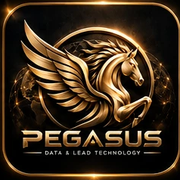
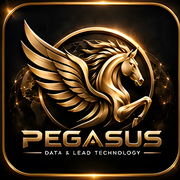
Sharp, full-screen splash art on the website and app
- Cut every brand asset from 4x AI-upscaled sources; the splash art is
  now 1600 px (was 444 px), so it stays crisp on retina screens
- Homepage hero fills the first screen: the art scales with the
  viewport and loads from a 640/1000/1600 WebP set; the city photo is
  dimmed behind it and the pins and arcs moved clear of the wordmark
- App boot splash, loading splash and sign-in panel use the hi-res
  WebP and show it larger
- Vectorize the black key and edge feather (the 4x sources would have
  been slow per-pixel); keep the corner logos at sensible sizes

Claude-Session: https://claude.ai/code/session_01Bm3ZcYr5XXSPQzKtcZGjka

diff --git a/pegasus/web/static/site.css b/pegasus/web/static/site.css
@@ -183,14 +183,14 @@ footer a:hover { color: var(--ink); }
 .hero2 { position: relative; overflow: hidden; padding: 64px 0 0; background: #050403; color: #F6EFE2; isolation: isolate; }
 .hero2::before { content: ""; position: absolute; inset: 0; z-index: -1;
   background: radial-gradient(40% 55% at 58% 42%, rgba(226,178,90,.20), transparent 70%), radial-gradient(60% 50% at 0% 0%, rgba(240,138,44,.08), transparent 70%); }
-.hero-city { position: absolute; right: 0; top: 0; height: 100%; width: min(62vw, 980px); object-fit: cover; object-position: 30% 40%; z-index: -1; opacity: .9;
+.hero-city { position: absolute; right: 0; top: 0; height: 100%; width: min(62vw, 980px); object-fit: cover; object-position: 30% 40%; z-index: -1; opacity: .55;
   -webkit-mask-image: linear-gradient(90deg, transparent 0%, #000 45%), linear-gradient(0deg, transparent 0%, #000 30%); mask-image: linear-gradient(90deg, transparent 0%, #000 45%);
   -webkit-mask-composite: source-in; }
 .hero2::after { content: ""; position: absolute; inset: 0; z-index: -1; pointer-events: none;
   background: linear-gradient(0deg, #050403 0%, rgba(5,4,3,.92) 20%, rgba(5,4,3,.35) 42%, transparent 60%),
               linear-gradient(90deg, #050403 0%, rgba(5,4,3,.75) 34%, transparent 58%); }
 .hero2 > .wrap { position: relative; z-index: 1; }
-.hero-arcs { position: absolute; left: 34%; right: 0; bottom: 210px; width: 66%; height: 170px; z-index: 0; opacity: .7; }
+.hero-arcs { position: absolute; left: 34%; right: 0; bottom: 96px; width: 66%; height: 170px; z-index: 0; opacity: .7; }
 .hero-arcs .arc { fill: none; stroke: url(#arc); stroke-width: 1.6; stroke-dasharray: 6 10; animation: dash 14s linear infinite; }
 .hero-arcs .a2 { animation-duration: 18s; } .hero-arcs .a3 { animation-duration: 22s; } .hero-arcs .a4 { animation-duration: 16s; }
 @keyframes dash { to { stroke-dashoffset: -400; } }
@@ -198,7 +198,9 @@ footer a:hover { color: var(--ink); }
   filter: drop-shadow(0 0 12px rgba(255,190,90,.9)); animation: bob 4s ease-in-out infinite; }
 .hpin svg { width: 100%; height: 100%; fill: rgba(226,178,90,.35); }
 @keyframes bob { 50% { transform: translate(-50%, -112%); } }
-.hero2-grid { display: grid; grid-template-columns: 1.02fr .98fr; gap: 24px; align-items: center; min-height: 560px; }
+/* Full-screen first view: the splash art scales with the viewport (hi-res srcset up to 1600 px) */
+.hero2-grid { display: grid; grid-template-columns: minmax(0, .88fr) minmax(0, 1.12fr); gap: 12px; align-items: center;
+  max-width: 1480px; padding-inline: clamp(20px, 4vw, 56px); min-height: max(560px, calc(100svh - 250px)); }
 .hero-copy .lead { color: #D9CCB4; font-size: 18px; margin-top: 20px; max-width: 560px; }
 .hero-copy .lead b { color: #FFE3A3; }
 .hero2 .grad, .final .grad { background: var(--wing); -webkit-background-clip: text; background-clip: text; color: transparent; }
@@ -213,13 +215,14 @@ footer a:hover { color: var(--ink); }
 .hero2 .btn-ghost { color: #D9CCB4; } .hero2 .btn-outline { color: #FFE3A3; }
 .trust { list-style: none; padding: 0; margin: 20px 0 0; display: flex; flex-wrap: wrap; gap: 8px 20px; color: #C9BAA0; font-size: 14px; }
 .trust li { display: flex; align-items: center; gap: 6px; } .trust svg { width: 16px; height: 16px; color: #E2B25A; }
-.hero-art { text-align: center; }
-.hero-art { position: relative; }
-.hero-art::before { content: ""; position: absolute; left: 50%; top: 42%; width: 70%; aspect-ratio: 1; transform: translate(-50%, -50%); border-radius: 50%;
+.hero-art { position: relative; text-align: center; margin-right: -20px; }
+.hero-art::after { content: ""; position: absolute; inset: -6% -4%; z-index: -1; pointer-events: none;
+  background: radial-gradient(closest-side, rgba(5,4,3,.82), rgba(5,4,3,.5) 60%, transparent); }
+.hero-art::before { content: ""; position: absolute; left: 50%; top: 44%; width: 74%; aspect-ratio: 1; transform: translate(-50%, -50%); border-radius: 50%;
   background: radial-gradient(circle, rgba(255,200,110,.28), transparent 65%); animation: halo 5s ease-in-out infinite; pointer-events: none; }
 @keyframes halo { 50% { opacity: .45; } }
-.hero-art img { position: relative; width: min(100%, 560px); height: auto; }
-.tagline { margin: 6px 0 0; letter-spacing: .55em; text-transform: uppercase; font-size: 15px; color: #E8DCC6; }
+.hero-art img { position: relative; display: block; margin: 0 auto; width: 100%; max-width: calc(74svh * 1.32); height: auto; }
+.tagline { margin: 6px 0 0; letter-spacing: .55em; text-transform: uppercase; font-size: clamp(13px, 1.2vw, 18px); color: #E8DCC6; }
 .pillars { list-style: none; padding: 0; margin: 28px 0 0; display: grid; grid-template-columns: repeat(5, 1fr); gap: 8px; }
 .pillars li { display: flex; flex-direction: column; align-items: center; text-align: center; gap: 6px; padding: 18px 10px; border-left: 1px solid rgba(226,178,90,.22); }
 .pillars li:first-child { border-left: 0; }
@@ -233,7 +236,7 @@ footer a:hover { color: var(--ink); }
 @keyframes pulse { 70% { box-shadow: 0 0 0 10px rgba(46,204,140,0); } 100% { box-shadow: 0 0 0 0 rgba(46,204,140,0); } }
 @media (max-width: 960px) {
   .hero2 { padding-top: 40px; } .hero2-grid { grid-template-columns: 1fr; min-height: 0; }
-  .hero-art { order: -1; } .hero-art img { width: min(78%, 380px); }
+  .hero-art { order: -1; margin: -12px -20px 0; } .hero-art img { width: 100%; max-width: calc(58svh * 1.32); }
   .hero-city { width: 100%; opacity: .35; }
   .hpin, .hero-arcs { display: none; }
   .pillars { grid-template-columns: repeat(2, 1fr); } .pillars li:nth-child(odd) { border-left: 0; } .pillars li:last-child { grid-column: 1 / -1; }

diff --git a/pegasus/web/templates/landing.html b/pegasus/web/templates/landing.html
@@ -3,7 +3,7 @@
 {% block title %}Construction Leads & Real Estate Leads Before Your Competition | Pegasus{% endblock %}
 {% block description %}Building permit leads, contractor leads and off-market real estate leads from public records, scored for your trade and predicted before they're advertised. 14 days free, no card.{% endblock %}
 {% block head %}
-<link rel="preload" as="image" href="/static/site/hero-logo.webp" imagesrcset="/static/site/hero-logo-360.webp 360w, /static/site/hero-logo.webp 444w" imagesizes="(max-width: 960px) 78vw, 444px" fetchpriority="high">
+<link rel="preload" as="image" href="/static/site/hero-logo-1000.webp" imagesrcset="/static/site/hero-logo-640.webp 640w, /static/site/hero-logo-1000.webp 1000w, /static/site/hero-logo-1600.webp 1600w" imagesizes="(max-width: 960px) 100vw, 58vw" fetchpriority="high">
 <script type="application/ld+json">{{ jsonld|safe }}</script>
 {% endblock %}
 
@@ -20,14 +20,14 @@
 <section class="hero2" aria-labelledby="hero-title">
   <picture>
     <source media="(max-width: 960px)" srcset="/static/site/hero-city-480.webp">
-    <img class="hero-city" src="/static/site/hero-city.webp" width="858" height="528" alt="" aria-hidden="true">
+    <img class="hero-city" src="/static/site/hero-city.webp" width="1920" height="1182" alt="" aria-hidden="true">
   </picture>
   <svg class="hero-arcs" viewBox="0 0 1440 260" preserveAspectRatio="none" aria-hidden="true">
     <defs><linearGradient id="arc" x1="0" x2="1"><stop offset="0" stop-color="#E2B25A" stop-opacity="0"/><stop offset=".5" stop-color="#FFD37A"/><stop offset="1" stop-color="#E2B25A" stop-opacity="0"/></linearGradient></defs>
     <path class="arc" d="M180 230 Q420 40 700 170"/><path class="arc a2" d="M700 170 Q960 20 1210 140"/>
     <path class="arc a3" d="M420 220 Q700 90 980 210"/><path class="arc a4" d="M980 210 Q1160 110 1330 200"/>
   </svg>
-  {% for x, y, d in [(54, 74, 0), (64, 66, 0.6), (75, 72, 1.2), (86, 65, 0.3), (95, 73, 0.9)] %}
+  {% for x, y, d in [(52, 90, 0), (63, 86, 0.6), (76, 91, 1.2), (87, 85, 0.3), (96, 90, 0.9)] %}
   <span class="hpin" style="left:{{ x }}%;top:{{ y }}%;animation-delay:{{ d }}s" aria-hidden="true">{{ icon("pin") }}</span>
   {% endfor %}
   <div class="wrap hero2-grid">
@@ -44,7 +44,7 @@
       <ul class="trust"><li>{{ icon("check") }} No card to start</li><li>{{ icon("check") }} Cancel in two clicks</li><li>{{ icon("check") }} Any US city or county</li></ul>
     </div>
     <div class="hero-art">
-      <img src="/static/site/hero-logo.webp" srcset="/static/site/hero-logo-360.webp 360w, /static/site/hero-logo.webp 444w" sizes="(max-width: 960px) 78vw, 444px" width="444" height="336" alt="Pegasus, data and lead technology" fetchpriority="high">
+      <img src="/static/site/hero-logo-1000.webp" srcset="/static/site/hero-logo-640.webp 640w, /static/site/hero-logo-1000.webp 1000w, /static/site/hero-logo-1600.webp 1600w" sizes="(max-width: 960px) 100vw, 58vw" width="1600" height="1211" alt="Pegasus, data and lead technology" fetchpriority="high">
       <p class="tagline">Opportunity finds you</p>
     </div>
   </div>

diff --git a/frontend/index.html b/frontend/index.html
@@ -5,7 +5,7 @@
     <meta name="viewport" content="width=device-width, initial-scale=1, viewport-fit=cover" />
     <meta name="theme-color" content="#0B0A08" />
     <link rel="icon" type="image/png" sizes="32x32" href="/static/brand/pegasus-32.png" />
-    <link rel="preload" as="image" href="/static/brand/splash.png" />
+    <link rel="preload" as="image" type="image/webp" href="/static/brand/splash.webp" />
     <link rel="manifest" href="/static/manifest.webmanifest" />
     <link rel="apple-touch-icon" href="/static/brand/apple-touch-icon.png" />
     <title>Pegasus · Leads</title>
@@ -19,13 +19,13 @@
       /* Shown before JavaScript loads; the React splash (components/Splash.tsx) takes over seamlessly. */
       #boot-splash { position: fixed; inset: 0; z-index: 6000; display: grid; place-items: center; background: #050403;
         background-image: radial-gradient(60% 50% at 50% 45%, rgba(226,178,90,0.16), transparent 70%); }
-      #boot-splash img { width: min(78vw, 560px); height: auto; animation: boot-in .6s ease-out both; }
+      #boot-splash img { width: min(92vw, calc(70svh * 1.32), 1100px); height: auto; animation: boot-in .6s ease-out both; }
       @keyframes boot-in { from { opacity: 0; transform: scale(.96); } to { opacity: 1; transform: none; } }
       @media (prefers-reduced-motion: reduce) { #boot-splash img { animation: none; } }
     </style>
   </head>
   <body class="bg-page text-ink antialiased">
-    <div id="boot-splash" aria-hidden="true"><img src="/static/brand/splash.png" alt="" /></div>
+    <div id="boot-splash" aria-hidden="true"><img src="/static/brand/splash.webp" alt="" /></div>
     <div id="root"></div>
     <script type="module" src="/src/main.tsx"></script>
   </body>

diff --git a/frontend/src/components/Splash.tsx b/frontend/src/components/Splash.tsx
@@ -12,8 +12,8 @@ export function Splash({ label = "Opportunity finds you" }: { label?: string }) 
       <div className="absolute inset-0"
            style={{ background: "radial-gradient(60% 50% at 50% 45%, rgba(226,178,90,0.16), transparent 70%)" }} />
       <div className="relative flex flex-col items-center px-6">
-        <motion.img src="/static/brand/splash.png" alt="Pegasus · data & lead technology" draggable={false}
-                    className="w-[min(78vw,560px)] h-auto select-none"
+        <motion.img src="/static/brand/splash.webp" alt="Pegasus · data & lead technology" draggable={false}
+                    className="w-[min(92vw,calc(70svh*1.32),1100px)] h-auto select-none"
                     initial={{ opacity: 0, scale: 0.96, filter: "brightness(0.7)" }}
                     animate={{ opacity: 1, scale: 1, filter: ["brightness(0.95)", "brightness(1.12)", "brightness(0.95)"] }}
                     transition={{ opacity: { duration: 0.5 }, scale: { duration: 0.9, ease: [0.2, 0.8, 0.2, 1] },

diff --git a/frontend/src/pages/Login.tsx b/frontend/src/pages/Login.tsx
@@ -17,8 +17,8 @@ export function AuthFrame({ children, aside }: { children: React.ReactNode; asid
              style={{ background: "radial-gradient(55% 45% at 50% 40%, rgba(226,178,90,0.18), transparent 70%)" }} />
         <div className="absolute h-[640px] w-[640px] rounded-full animate-sweep opacity-60"
              style={{ background: "conic-gradient(from 0deg, transparent 0deg, rgba(226,178,90,0.16) 40deg, transparent 70deg)" }} />
-        <img src="/static/brand/splash.png" alt="Pegasus · data & lead technology" draggable={false}
-             className="relative w-[min(36vw,560px)] h-auto select-none" />
+        <img src="/static/brand/splash.webp" alt="Pegasus · data & lead technology" draggable={false}
+             className="relative w-[min(44vw,calc(62svh*1.32),860px)] h-auto select-none" />
         <div className="relative max-w-md px-8 text-center">{aside}</div>
       </div>
     </div>

diff --git a/pegasus/marketing/brand_pack.py b/pegasus/marketing/brand_pack.py
@@ -4,7 +4,10 @@ Sources (supplied artwork, kept in the repo):
   marketing/brand/source/logo-primary.png  512x512 primary logo (app corner logo)
   marketing/brand/source/brand-pack.webp   1536x1024 sheet: splash logo, app icon, social profile/cover, website hero
 
-Run after replacing either source (e.g. with higher-resolution originals; crop boxes scale automatically):
+If 4x versions exist (logo-primary-4x.png, brand-pack-4x.webp, made by scripts/upscale_brand_sources.py),
+they are used instead, so the splash and hero art stay sharp full-screen on retina displays.
+
+Run after replacing a source (crop boxes scale automatically to any resolution):
   pip install pillow && pegasus marketing brand
 """
 
@@ -12,7 +15,7 @@ from __future__ import annotations
 
 from pathlib import Path
 
-from PIL import Image, ImageChops, ImageDraw, ImageFilter
+from PIL import Image, ImageChops, ImageDraw, ImageFilter, ImageMath
 
 ROOT = Path(__file__).resolve().parents[2]
 SRC = ROOT / "marketing" / "brand" / "source"
@@ -41,35 +44,28 @@ def scale_box(box, src_size, base_size):
 def key_black(im: Image.Image, lo: int = 14, hi: int = 150) -> Image.Image:
     """Turn the black background transparent. Alpha follows brightness (like a 'screen' blend), and colors
     are un-premultiplied so the gold keeps its brightness on any background."""
-    rgb = im.convert("RGB")
-    r, g, b = rgb.split()
+    r, g, b = im.convert("RGB").split()
     peak = ImageChops.lighter(ImageChops.lighter(r, g), b)
     alpha = peak.point(lambda v: 0 if v <= lo else 255 if v >= hi else round((v - lo) * 255 / (hi - lo)))
-    px, apx = rgb.load(), alpha.load()
-    out = Image.new("RGBA", rgb.size)
-    opx = out.load()
-    for y in range(rgb.size[1]):
-        for x in range(rgb.size[0]):
-            a = apx[x, y]
-            if a == 0:
-                opx[x, y] = (0, 0, 0, 0)
-                continue
-            cr, cg, cb = px[x, y]
-            f = 255 / a
-            opx[x, y] = (min(255, round(cr * f)), min(255, round(cg * f)), min(255, round(cb * f)), a)
-    return out
+    half, solid = alpha.point(lambda v: v // 2), alpha.point(lambda v: 255 if v else 0)
+    chans = [ImageChops.multiply(ImageMath.lambda_eval(lambda a: (a["c"] * 255 + a["h"]) / a["a"],
+                                                       c=c, a=alpha, h=half).convert("L"), solid)
+             for c in (r, g, b)]
+    return Image.merge("RGBA", (*chans, alpha))
 
 
 def feather(im: Image.Image, frac: float = 0.07) -> Image.Image:
     """Fade alpha to zero toward every edge, so a cut-out never shows a hard rectangle."""
     w, h = im.size
-    edge = Image.new("L", (w, h), 0)
-    px = edge.load()
-    fx, fy = max(1, w * frac), max(1, h * frac)
-    for y in range(h):
-        vy = min(1.0, y / fy, (h - 1 - y) / fy)
-        for x in range(w):
-            px[x, y] = round(255 * max(0.0, min(vy, x / fx, (w - 1 - x) / fx)))
+
+    def ramp(n: int) -> list[int]:
+        f = max(1, n * frac)
+        return [round(255 * max(0.0, min(1.0, i / f, (n - 1 - i) / f))) for i in range(n)]
+
+    hx, hy = Image.new("L", (w, 1)), Image.new("L", (1, h))
+    hx.putdata(ramp(w))
+    hy.putdata(ramp(h))
+    edge = ImageChops.darker(hx.resize((w, h), Image.NEAREST), hy.resize((w, h), Image.NEAREST))
     out = im.copy()
     out.putalpha(ImageChops.multiply(im.getchannel("A"), edge))
     return out
@@ -92,6 +88,17 @@ def rounded(im: Image.Image, radius_frac: float = 0.22) -> Image.Image:
     return out
 
 
+def source(name: str, hires: str) -> Image.Image:
+    return Image.open(SRC / hires if (SRC / hires).exists() else SRC / name)
+
+
+def fit(im: Image.Image, max_w: int) -> Image.Image:
+    """Downscale to at most max_w wide (never upscale)."""
+    if im.width <= max_w:
+        return im
+    return im.resize((max_w, round(im.height * max_w / im.width)), Image.LANCZOS)
+
+
 def square(im: Image.Image) -> Image.Image:
     s = min(im.size)
     l, t = (im.width - s) // 2, (im.height - s) // 2
@@ -112,46 +119,45 @@ def main() -> list[Path]:
         img.save(path, optimize=True, **kw)
         written.append(path)
 
-    # --- primary logo (top corner of the app)
-    logo = Image.open(SRC / "logo-primary.png")
+    # --- primary logo (top corner of the app). Sizes are about 3x their usual on-screen size.
+    logo = source("logo-primary.png", "logo-primary-4x.png")
     lb = {k: scale_box(v, logo.size, (LOGO_BASE, LOGO_BASE)) for k, v in LOGO_BOXES.items()}
-    full = trim(key_black(logo.crop(scale_box((0, 0, 512, 462), logo.size, (LOGO_BASE, LOGO_BASE)))))
+    full = trim(key_black(fit(logo.crop(scale_box((0, 0, 512, 462), logo.size, (LOGO_BASE, LOGO_BASE))), 480)))
     save(full, STATIC / "logo.png")
-    save(trim(key_black(logo.crop(lb["emblem"]))), STATIC / "logo-mark.png")
-    save(trim(key_black(logo.crop(lb["wordmark"]))), STATIC / "logo-wordmark.png")
-    # Email header (Gmail/Outlook need PNG): the wordmark on the email's black header
-    save(trim(key_black(logo.crop(lb["wordmark"]))), STATIC / "email-wordmark.png")
+    mark = trim(key_black(fit(logo.crop(lb["emblem"]), 320)))
+    save(mark, STATIC / "logo-mark.png")
+    save(trim(key_black(fit(logo.crop(lb["wordmark"]), 640))), STATIC / "logo-wordmark.png")
+    # Email header (Gmail/Outlook need PNG): the wordmark on the email's black header, kept light
+    save(trim(key_black(fit(logo.crop(lb["wordmark"]), 480))), STATIC / "email-wordmark.png")
 
     # --- brand pack sheet
-    pack = Image.open(SRC / "brand-pack.webp").convert("RGB")
+    pack = source("brand-pack.webp", "brand-pack-4x.webp").convert("RGB")
     pb = {k: scale_box(v, pack.size, PACK_BASE) for k, v in PACK_BOXES.items()}
-    # Splash art keyed off its black background so it floats on the splash page with no visible edges
-    save(feather(key_black(pack.crop(pb["splash"]), lo=16, hi=130), 0.05), STATIC / "splash.png")
+    # Splash art keyed off its black background so it floats on any page with no visible edges.
+    # PNG for the ad renderer, WebP (with alpha) for the app splash and sign-in screens.
+    splash = feather(key_black(fit(pack.crop(pb["splash"]), 1600), lo=16, hi=130), 0.05)
+    save(splash, STATIC / "splash.png")
+    save(splash, STATIC / "splash.webp", quality=62, alpha_quality=60, method=6)
     icon = square(pack.crop(pb["app-icon"]))
     for name, size in (("pegasus-512.png", 512), ("pegasus-192.png", 192), ("apple-touch-icon.png", 180)):
         save(upscale(icon, size), STATIC / name)
     # Favicon: the emblem alone reads better than the detailed tile at 32 px
-    mark = trim(key_black(logo.crop(lb["emblem"])))
     fav = Image.new("RGBA", (64, 64), (11, 10, 8, 255))
     m = mark.copy()
     m.thumbnail((56, 56), Image.LANCZOS)
     fav.alpha_composite(m, ((64 - m.width) // 2, (64 - m.height) // 2))
     save(rounded(fav).resize((32, 32), Image.LANCZOS), STATIC / "pegasus-32.png")
-    # Website: text-free hero art as WebP (fast LCP), and the splash art as WebP with alpha
+    # Website: text-free city art and the full-screen splash art, as responsive WebP sets
     site = STATIC.parent / "site"
     site.mkdir(parents=True, exist_ok=True)
     city = pack.crop(pb["hero-city"])
-    city = city.resize((round(city.width * 1.6), round(city.height * 1.6)), Image.LANCZOS)
-    city = city.filter(ImageFilter.UnsharpMask(radius=1.4, percent=50, threshold=2))
-    save(city, site / "hero-city.webp", quality=80, method=6)
-    save(city.resize((480, round(480 * city.height / city.width)), Image.LANCZOS), site / "hero-city-480.webp",
-         quality=55, method=6)  # phones show it faded; keep it tiny
-    logo_art = Image.open(STATIC / "splash.png")
-    save(logo_art, site / "hero-logo.webp", quality=88, method=6)
-    small = logo_art.resize((360, round(360 * logo_art.height / logo_art.width)), Image.LANCZOS)
-    save(small, site / "hero-logo-360.webp", quality=68, method=6)  # phones: faster LCP
+    city = city.resize((1920, round(1920 * city.height / city.width)), Image.LANCZOS)
+    save(city, site / "hero-city.webp", quality=78, method=6)
+    save(fit(city, 480), site / "hero-city-480.webp", quality=55, method=6)  # phones show it faded; keep it tiny
+    for w in (1600, 1000, 640):  # q60 is visually identical to q85 on this art at half the bytes
+        save(fit(splash, w), site / f"hero-logo-{w}.webp", quality=60, alpha_quality=60, method=6)
     for name in ("social-profile", "social-cover", "website-hero"):
-        save(pack.crop(pb[name]), PACK_OUT / f"{name}.png")
+        save(fit(pack.crop(pb[name]), 2400), PACK_OUT / f"{name}.png")
     save(rounded(upscale(icon, 512)), PACK_OUT / "app-icon-rounded.png")
     return written
 

diff --git a/tests/test_marketing.py b/tests/test_marketing.py
@@ -111,16 +111,32 @@ def test_brand_pack_assets_are_in_place():
     assert (ROOT / "marketing/brand/source/brand-pack.webp").exists()
 
 
+def test_splash_art_is_sharp_full_screen():
+    """The splash/hero art is big enough for a full-screen retina display, with a responsive set for the site."""
+    pytest.importorskip("PIL")
+    from PIL import Image
+
+    assert Image.open(ROOT / "pegasus/web/static/brand/splash.webp").width >= 1600
+    for w in (640, 1000, 1600):
+        assert Image.open(ROOT / f"pegasus/web/static/site/hero-logo-{w}.webp").width == w
+
+
 def test_brand_pack_importer(tmp_path, monkeypatch):
     pytest.importorskip("PIL")
     from PIL import Image
 
     from pegasus.marketing import brand_pack
 
+    src = tmp_path / "src"  # the supplied 1x originals keep this test fast
+    src.mkdir()
+    for name in ("logo-primary.png", "brand-pack.webp"):
+        (src / name).write_bytes((brand_pack.SRC / name).read_bytes())
+    monkeypatch.setattr(brand_pack, "SRC", src)
     monkeypatch.setattr(brand_pack, "STATIC", tmp_path / "static")
     monkeypatch.setattr(brand_pack, "PACK_OUT", tmp_path / "pack")
     written = {p.name for p in brand_pack.main()}
-    assert {"logo.png", "logo-mark.png", "splash.png", "pegasus-512.png", "website-hero.png"} <= written
+    assert {"logo.png", "logo-mark.png", "splash.png", "splash.webp", "hero-logo-1600.webp", "pegasus-512.png",
+            "website-hero.png"} <= written
     logo = Image.open(tmp_path / "static" / "logo.png")
     assert logo.mode == "RGBA" and logo.getpixel((0, 0))[3] == 0  # black background keyed out
     assert Image.open(tmp_path / "static" / "pegasus-512.png").size == (512, 512)
